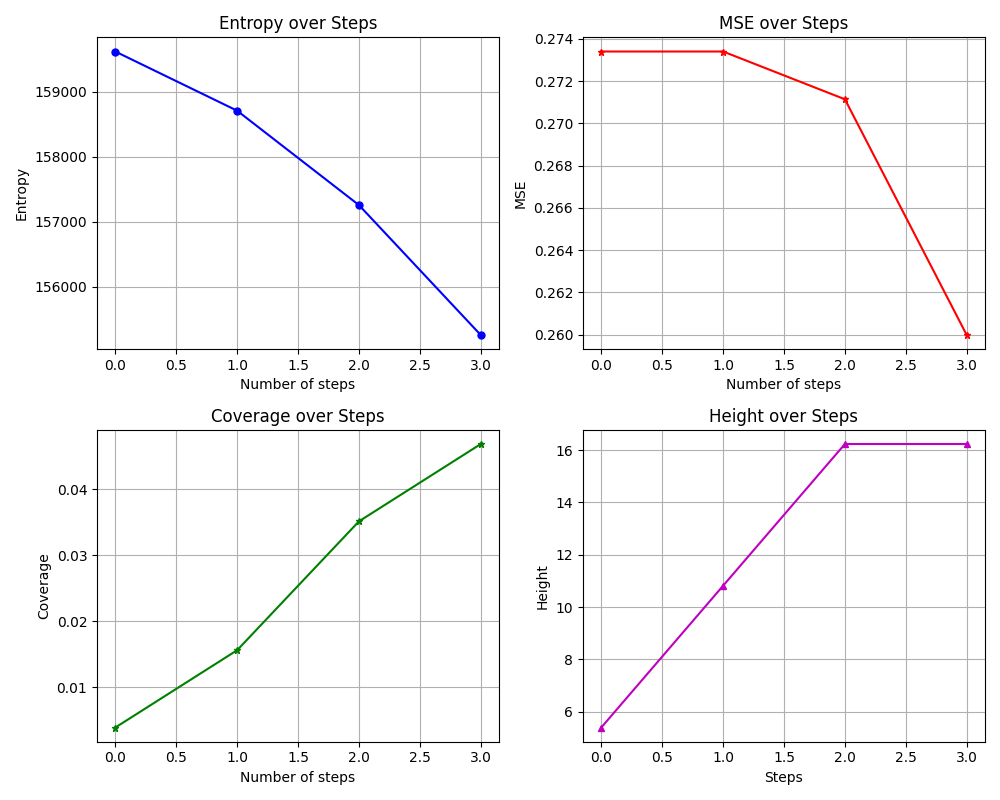
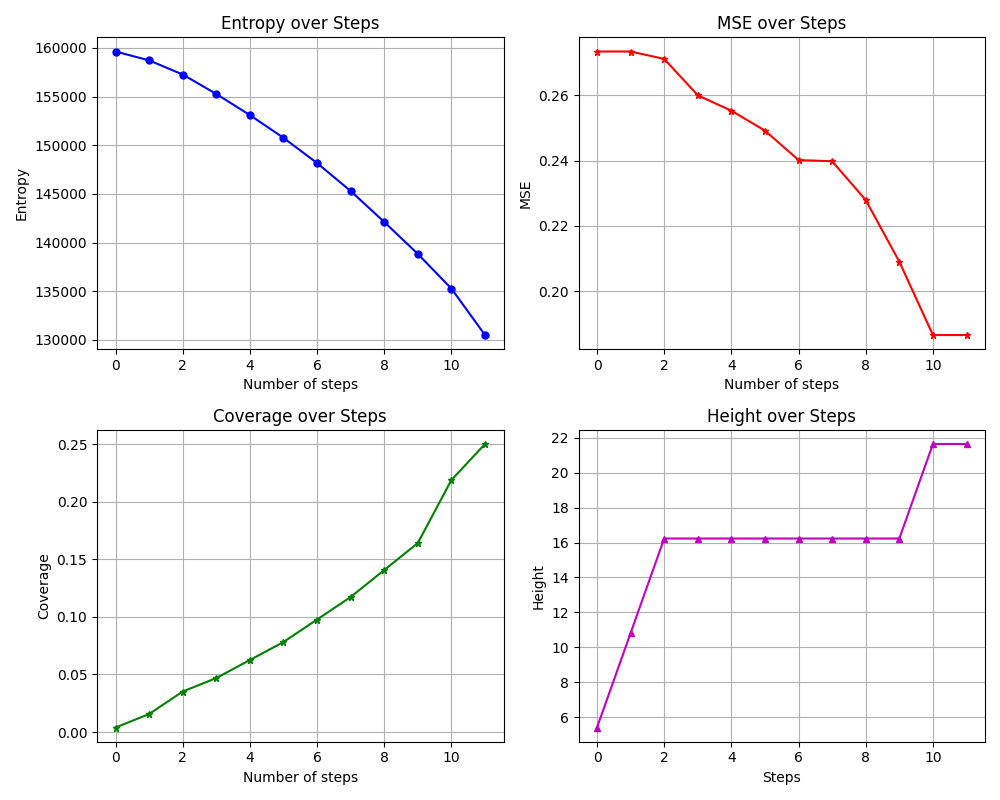
temp folder save

diff --git a/src/viewer.py b/src/viewer.py
@@ -88,7 +88,6 @@ def plot_terrain(filename, belief, grid, uav_pos, gt, submap, zx, zy):
     im2 = ax3.imshow(
         belief[:, :, 1].T,
         cmap="Blues",
-        # norm=norm,
         extent=[x.min(), x.max(), y.min(), y.max()],
         origin="lower",
         # interpolation="nearest",
@@ -144,3 +143,55 @@ def plot_terrain(filename, belief, grid, uav_pos, gt, submap, zx, zy):
     #     # # Save the figure to a file
     #     plt.savefig(filename)
     #     plt.close(fig)
+
+
+
+def plot_metrics(dir, entropy_list, mse_list, coverage_list, height_list):
+
+    assert len(entropy_list) == len(mse_list)
+    assert len(coverage_list) == len(mse_list)
+    assert len(coverage_list) == len(height_list)
+
+    steps = range(len(entropy_list))
+
+    # fig, (ax1, ax2, ax3) = plt.subplots(3, 1, figsize=(8, 8))  # 3 rows, 1 column
+    # Create a 2x2 grid of subplots
+    fig, axes = plt.subplots(2, 2, figsize=(10, 8))  # 2 rows, 2 columns
+    (ax1, ax2), (ax3, ax4) = axes
+
+    # Plot entropy in the first subplot
+    ax1.plot(steps, entropy_list, "bo-", label="Entropy", markersize=5)
+    ax1.set_xlabel("Number of steps")
+    ax1.set_ylabel("Entropy")
+    ax1.set_title("Entropy over Steps")
+    ax1.grid(True)
+
+    # Plot MSE in the second subplot
+    ax2.plot(steps, mse_list, "r*-", label="MSE", markersize=5)
+    ax2.set_xlabel("Number of steps")
+    ax2.set_ylabel("MSE")
+    ax2.set_title("MSE over Steps")
+    ax2.grid(True)
+
+    # Plot covberage in the second subplot
+    ax3.plot(steps, coverage_list, "g*-", label="Coverage", markersize=5)
+    ax3.set_xlabel("Number of steps")
+    ax3.set_ylabel("Coverage")
+    ax3.set_title("Coverage over Steps")
+    ax3.grid(True)
+
+    # Plot height in the fourth subplot
+    ax4.plot(steps, height_list, "m^-", label="Height", markersize=5)
+    ax4.set_xlabel("Steps")
+    ax4.set_ylabel("Height")
+    ax4.set_title("Height over Steps")
+    ax4.grid(True)
+
+    # Adjust layout to avoid overlap
+    plt.tight_layout()
+
+    # Show the plot
+    plt.savefig(dir+"/final.png")
+    plt.close(fig)
+
+    # plt.show()

diff --git a/src/main_new.py b/src/main_new.py
@@ -1,27 +1,31 @@
-from mapper import OccupancyMap, adapt_observations, get_observations
+from mapper import OccupancyMap, get_observations
 import timeit
+import os 
 
 from helper import (
     FastLogger,
     compute_metrics,
     observed_m_ids,
-    plot_metrics,
     uav_position,
 )
 from terrain_creation import gaussian_random_field
 from planner_new import planning
 from uav_camera import camera
 
-from viewer import plot_terrain
+from viewer import plot_terrain, plot_metrics
 
 # desktop = "/home/bota/Desktop/"
 desktop = "/Users/botaduisenbay/active_sensing"
 
 cache_dir = desktop + "/cache/"
-correlation_type = "equal"  # "biased", "equal" "adaptive"
+desktop+="/temp/"
+correlation_type = "biased"  # "biased", "equal" "adaptive"
 action_select_strategy = "ig"  # "ig", "random" "sweep" ig_with_mexgen
-n_steps = 300
+n_steps = 100
 grf_r = 5
+if not os.path.exists(desktop):
+    os.makedirs(desktop)
+
 
 
 class grid_info:
@@ -53,7 +57,7 @@ uav_positions, past_observations, actions = [uav_pos], [], []
 
 
 belief_map = mapper.marginalize()
-planner = planning(belief_map, camera)
+planner = planning(belief_map, camera, action_select_strategy)
 
 obs_ms = set()
 entropy, mse, height, coverage = [], [], [], []
@@ -61,7 +65,6 @@ entropy, mse, height, coverage = [], [], [], []
 for step in range(n_steps + 1):
     # collect observations
     zx, zy, submap = get_observations(grid_info, ground_truth_map, uav_pos)
-    # observations = adapt_observations(zx, zy, submap, grid_info)
     # mapping
     mapper.update_observations(zx, zy, submap, uav_pos, belief_map)
     mapper.propagate_messages(max_iterations=1, correlation_type=correlation_type)
@@ -96,6 +99,7 @@ for step in range(n_steps + 1):
 
     if step == n_steps:
         break
+
     # PLAN
     next_action = planner.select_action(belief_map, uav_positions)
 

diff --git a/src/helper.py b/src/helper.py
@@ -128,56 +128,6 @@ def compute_metrics(ground_truth_map, belief, ms_set, grid):
     return (entropy, mse, coverage)
 
 
-def plot_metrics(dir, entropy_list, mse_list, coverage_list, height_list):
-
-    assert len(entropy_list) == len(mse_list)
-    assert len(coverage_list) == len(mse_list)
-    assert len(coverage_list) == len(height_list)
-
-    steps = range(len(entropy_list))
-
-    # fig, (ax1, ax2, ax3) = plt.subplots(3, 1, figsize=(8, 8))  # 3 rows, 1 column
-    # Create a 2x2 grid of subplots
-    fig, axes = plt.subplots(2, 2, figsize=(10, 8))  # 2 rows, 2 columns
-    (ax1, ax2), (ax3, ax4) = axes
-
-    # Plot entropy in the first subplot
-    ax1.plot(steps, entropy_list, "bo-", label="Entropy", markersize=5)
-    ax1.set_xlabel("Number of steps")
-    ax1.set_ylabel("Entropy")
-    ax1.set_title("Entropy over Steps")
-    ax1.grid(True)
-
-    # Plot MSE in the second subplot
-    ax2.plot(steps, mse_list, "r*-", label="MSE", markersize=5)
-    ax2.set_xlabel("Number of steps")
-    ax2.set_ylabel("MSE")
-    ax2.set_title("MSE over Steps")
-    ax2.grid(True)
-
-    # Plot covberage in the second subplot
-    ax3.plot(steps, coverage_list, "g*-", label="Coverage", markersize=5)
-    ax3.set_xlabel("Number of steps")
-    ax3.set_ylabel("Coverage")
-    ax3.set_title("Coverage over Steps")
-    ax3.grid(True)
-
-    # Plot height in the fourth subplot
-    ax4.plot(steps, height_list, "m^-", label="Height", markersize=5)
-    ax4.set_xlabel("Steps")
-    ax4.set_ylabel("Height")
-    ax4.set_title("Height over Steps")
-    ax4.grid(True)
-
-    # Adjust layout to avoid overlap
-    plt.tight_layout()
-
-    # Show the plot
-    plt.savefig(dir+"/final.png")
-    plt.close(fig)
-
-    # plt.show()
-
 
 class FastLogger:
     HEADER = "step\tentropy\tmse\theight\tcoverage\n"

diff --git a/src/planner_new.py b/src/planner_new.py
@@ -6,10 +6,11 @@ from helper import uav_position
 
 
 class planning:
-    def __init__(self, belief, uav):
+    def __init__(self, belief, uav, strategy):
         self.M = belief
         self.uav = uav
         self.last_action = None
+        self.strategy = strategy
 
     def info_gain(self, var, x_future, mexgen=False):
         ig = self.H(var) - self._expected_entropy(var, x_future, mexgen=mexgen)
@@ -175,17 +176,17 @@ class planning:
         print(next_action)
         return next_action
 
-    def select_action(self, belief, visited_x, strategy="ig"):
+    def select_action(self, belief, visited_x):
         self.M = belief
 
         permitted_actions = self.uav.permitted_actions(self.uav)  # at UAV position x
-        if strategy == "random":
+        if self.strategy == "random":
             return self.random_action(permitted_actions)
-        if strategy == "sweep":
+        if self.strategy == "sweep":
             return self.sweep(permitted_actions, visited_x)
 
         # IG based IPP strategy
-        if strategy == "ig_with_mexgen":
+        if self.strategy == "ig_with_mexgen":
             mexgen = True
         else:
             mexgen = False
